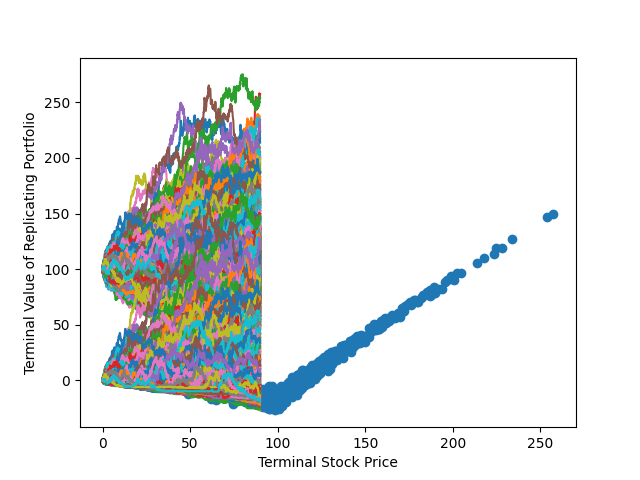
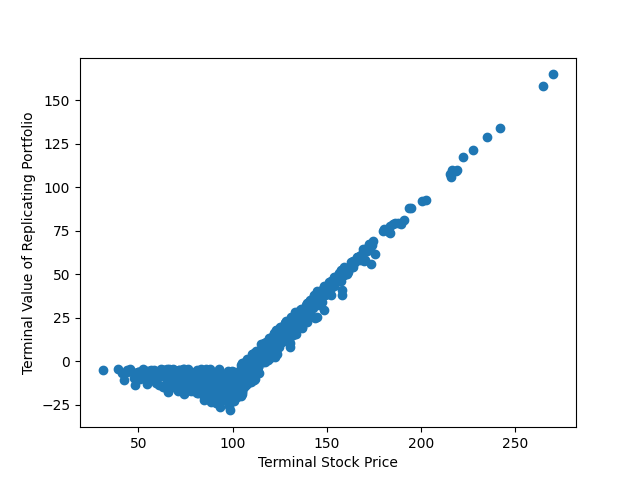
Fixed readme plots

diff --git a/code/demo.py b/code/demo.py
@@ -41,14 +41,17 @@ plt.plot(times,S.T);
 plt.xlabel('Time')
 plt.ylabel('Stock Price')
 plt.savefig('../output/stock_price.png')
+plt.clf()
 #Replicating portfolio value
 plt.plot(times[:-1],portfolio.T)
 plt.xlabel('Time')
 plt.ylabel('Value of Replicating Portfolio')
 plt.savefig('../output/replicating_portfolio.png')
+plt.clf()
 #Payoff diagram
 plt.scatter(S[:,-1],portfolio[:,-1])
 plt.xlabel('Terminal Stock Price')
 plt.ylabel('Terminal Value of Replicating Portfolio')
 plt.savefig('../output/payoff_diagram.png')
+plt.clf()
 #plt.scatter(S[:,:-1].reshape(-1),delta.reshape(-1));plt.show()
